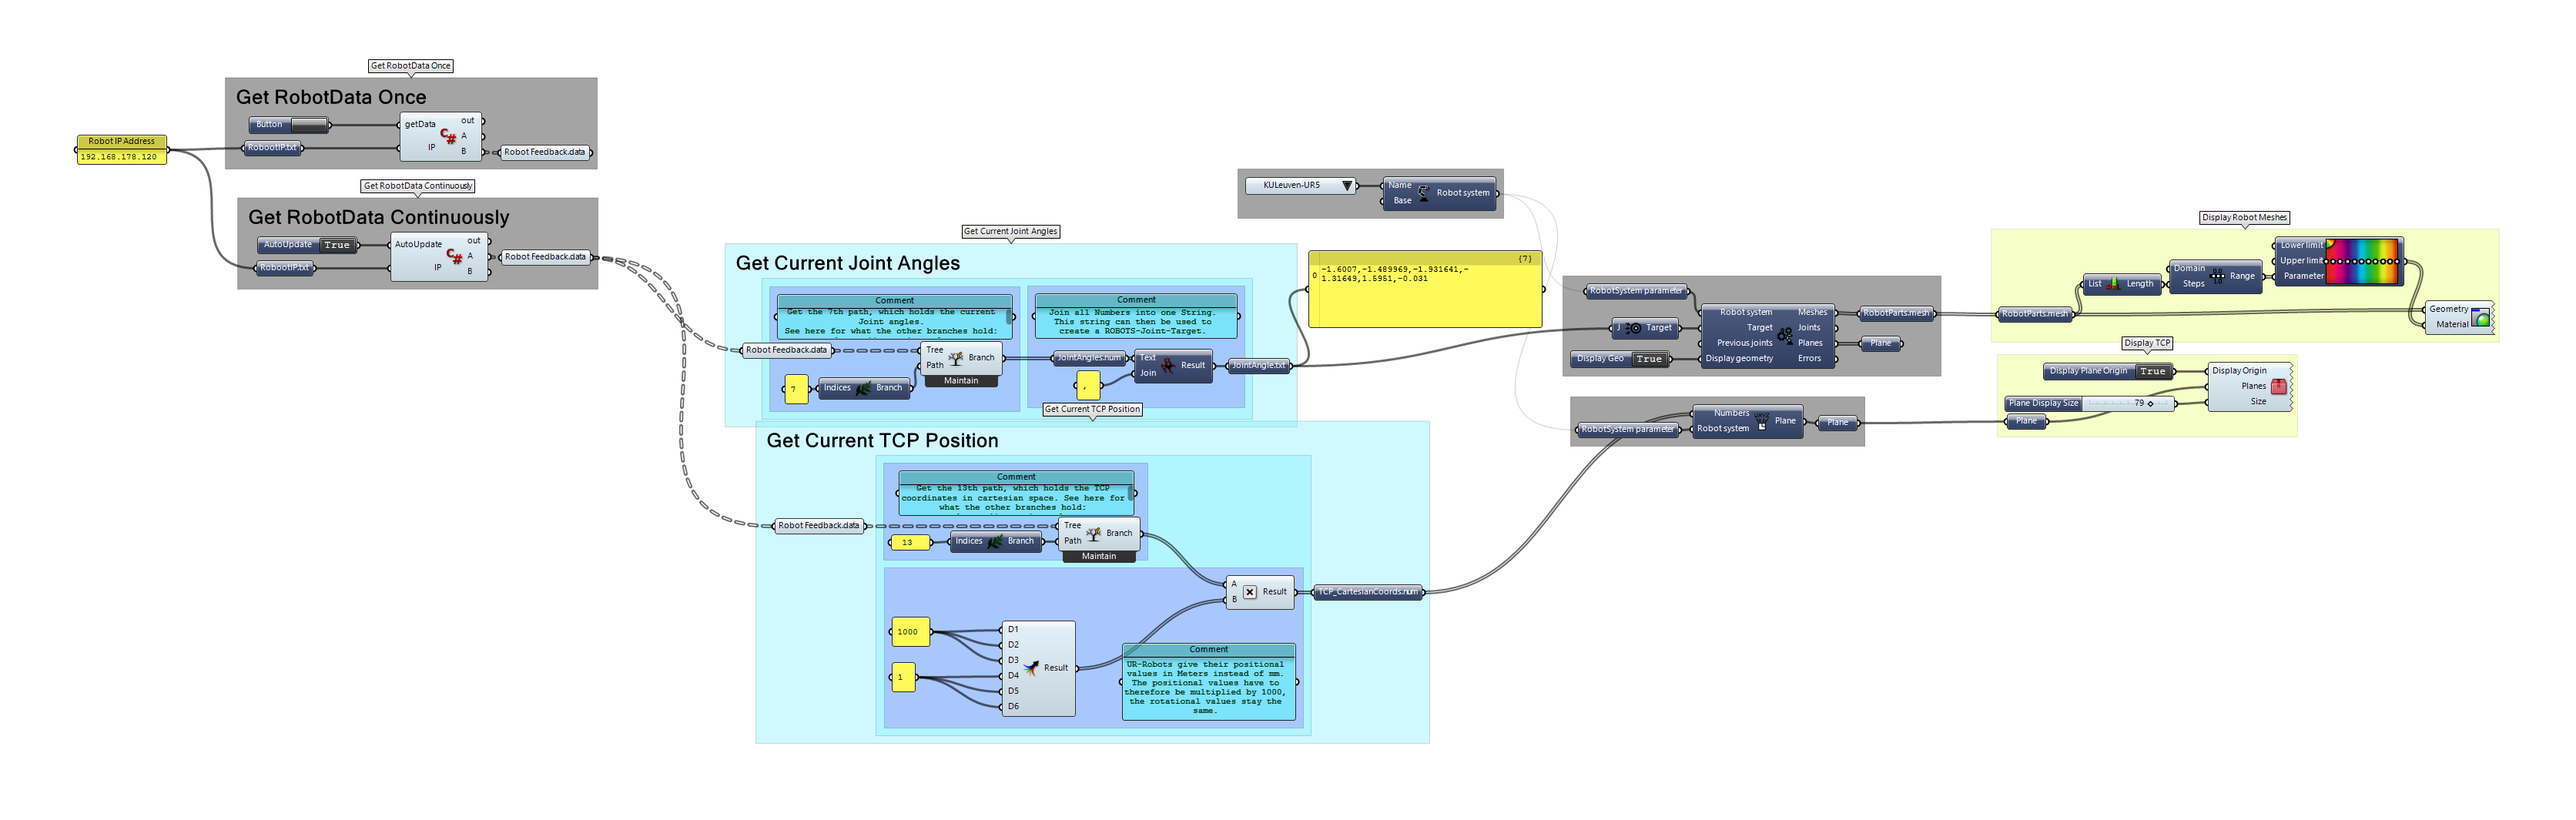
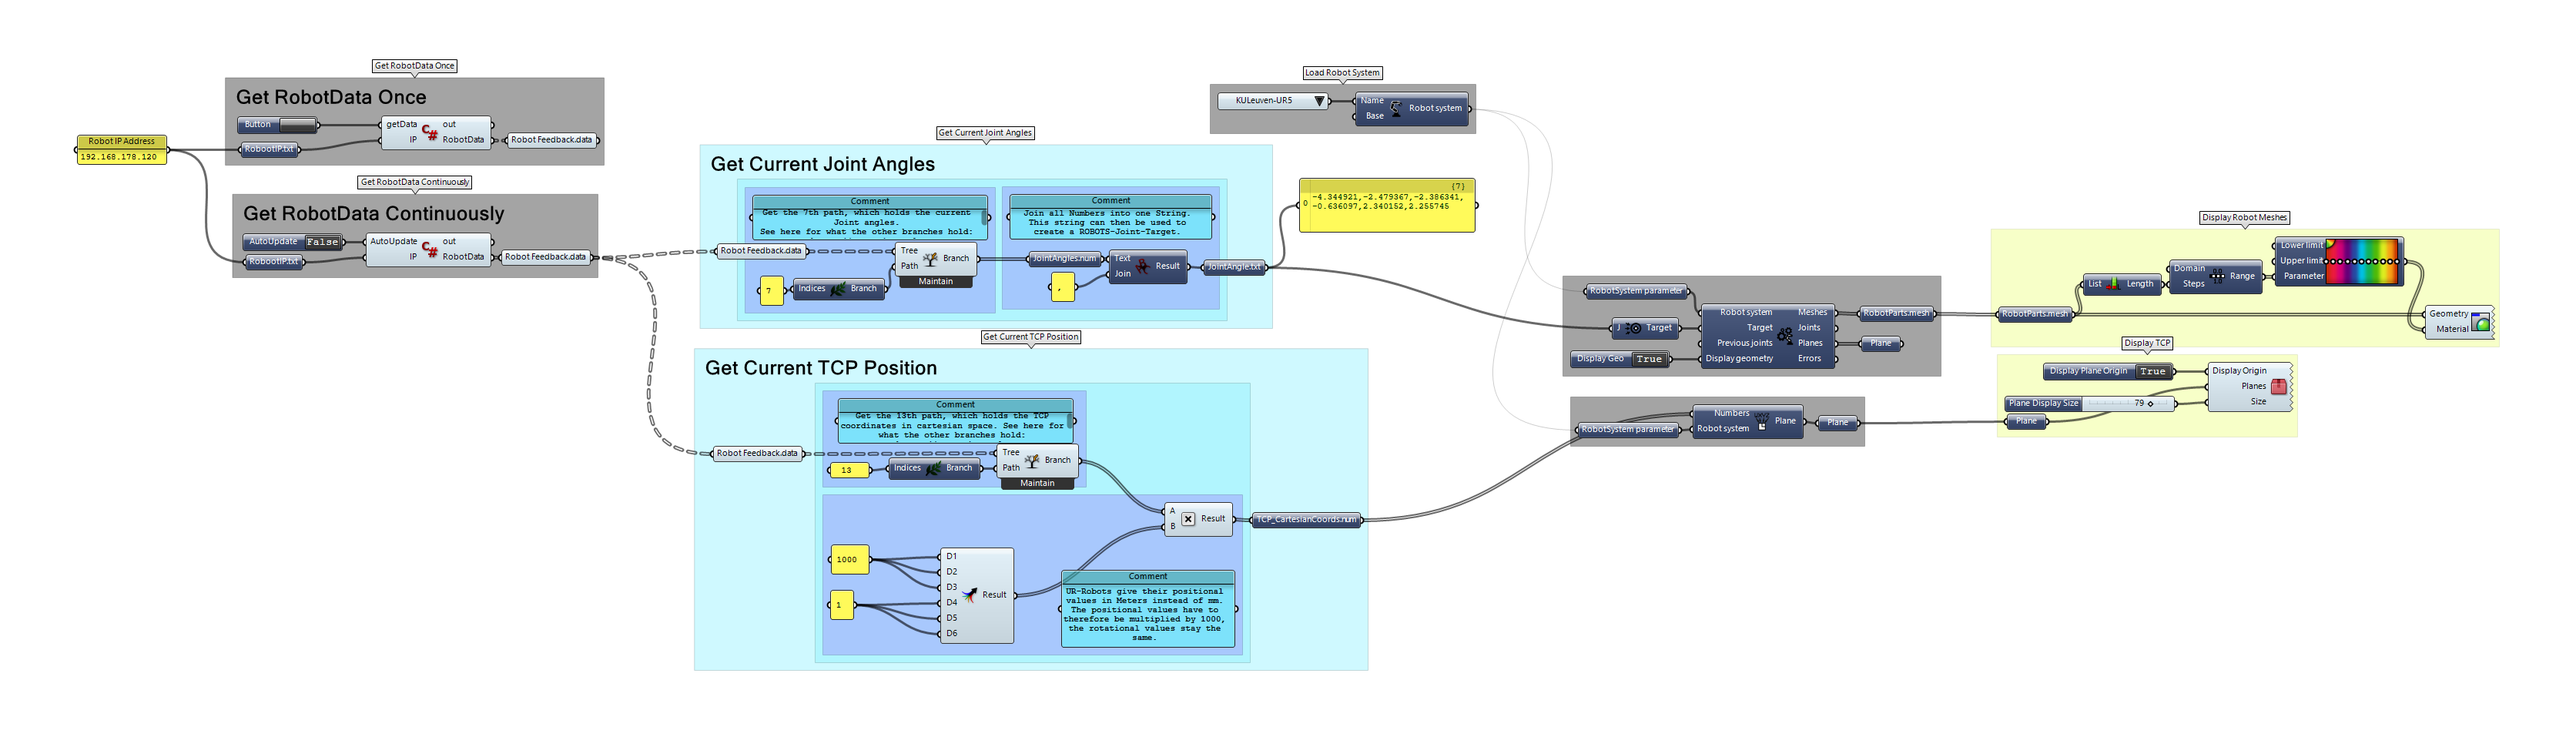
Updated Definition + Scripts
Should prevent it from opening and immediately trying to load robot data.

Changed region(s): [[0.0311, 0.0619, 0.9949, 0.9278]]

diff --git a/GetURDataContinuously.cs b/GetURDataContinuously.cs
@@ -55,7 +55,7 @@ public class Script_Instance : GH_ScriptInstance
   /// Output parameters as ref arguments. You don't have to assign output parameters,
   /// they will have a default value.
   /// </summary>
-  private void RunScript(bool AutoUpdate, string IP, ref object A, ref object B)
+  private void RunScript(bool AutoUpdate, string IP, ref object RobotData)
   {
     datapack = new List<double>();
 
@@ -65,18 +65,16 @@ public class Script_Instance : GH_ScriptInstance
       RobotConnection = new URRealTime(RobotAddress);
       Feedbackdata = RobotConnection.FeedbackData;
     }
-
     if (DataAsTree == null)
     {
       DataAsTree = new DataTree<double>();
     }
-
     if (task == null || task.IsCompleted)
     {
       task = System.Threading.Tasks.Task.Run(() => Animation());
     }
-
-    A = DataAsTree;
+    RobotData = DataAsTree;
+    
     if (AutoUpdate == true)
     {
       Component.ExpireSolution(true);

diff --git a/GetURDataOnce.cs b/GetURDataOnce.cs
@@ -55,7 +55,7 @@ public class Script_Instance : GH_ScriptInstance
   /// Output parameters as ref arguments. You don't have to assign output parameters,
   /// they will have a default value.
   /// </summary>
-  private void RunScript(bool getData, string IP, ref object A, ref object B)
+  private void RunScript(bool getData, string IP, ref object RobotData)
   {
     if(DataAsTree == null)
     {
@@ -81,7 +81,7 @@ public class Script_Instance : GH_ScriptInstance
       }
 
     }
-    B = DataAsTree;
+    RobotData = DataAsTree;
   }
 
   // <Custom additional code> 
